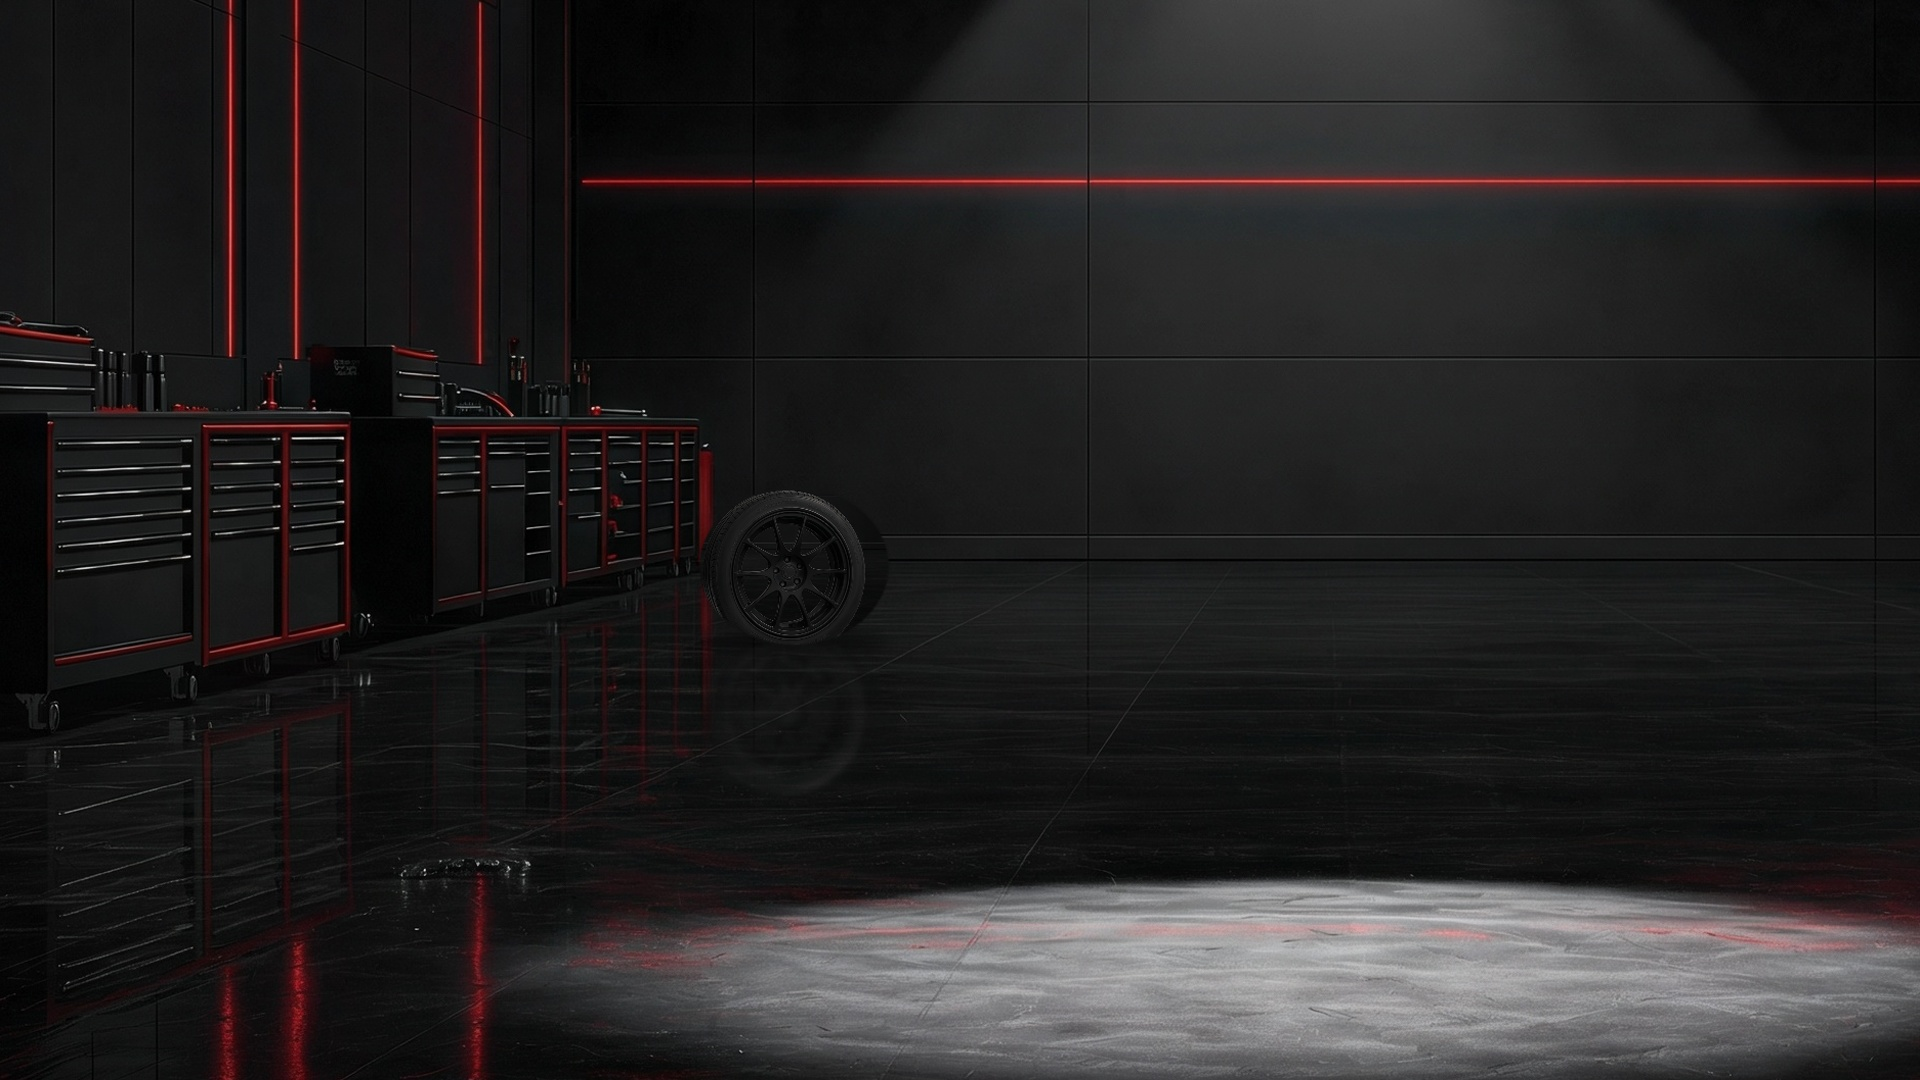
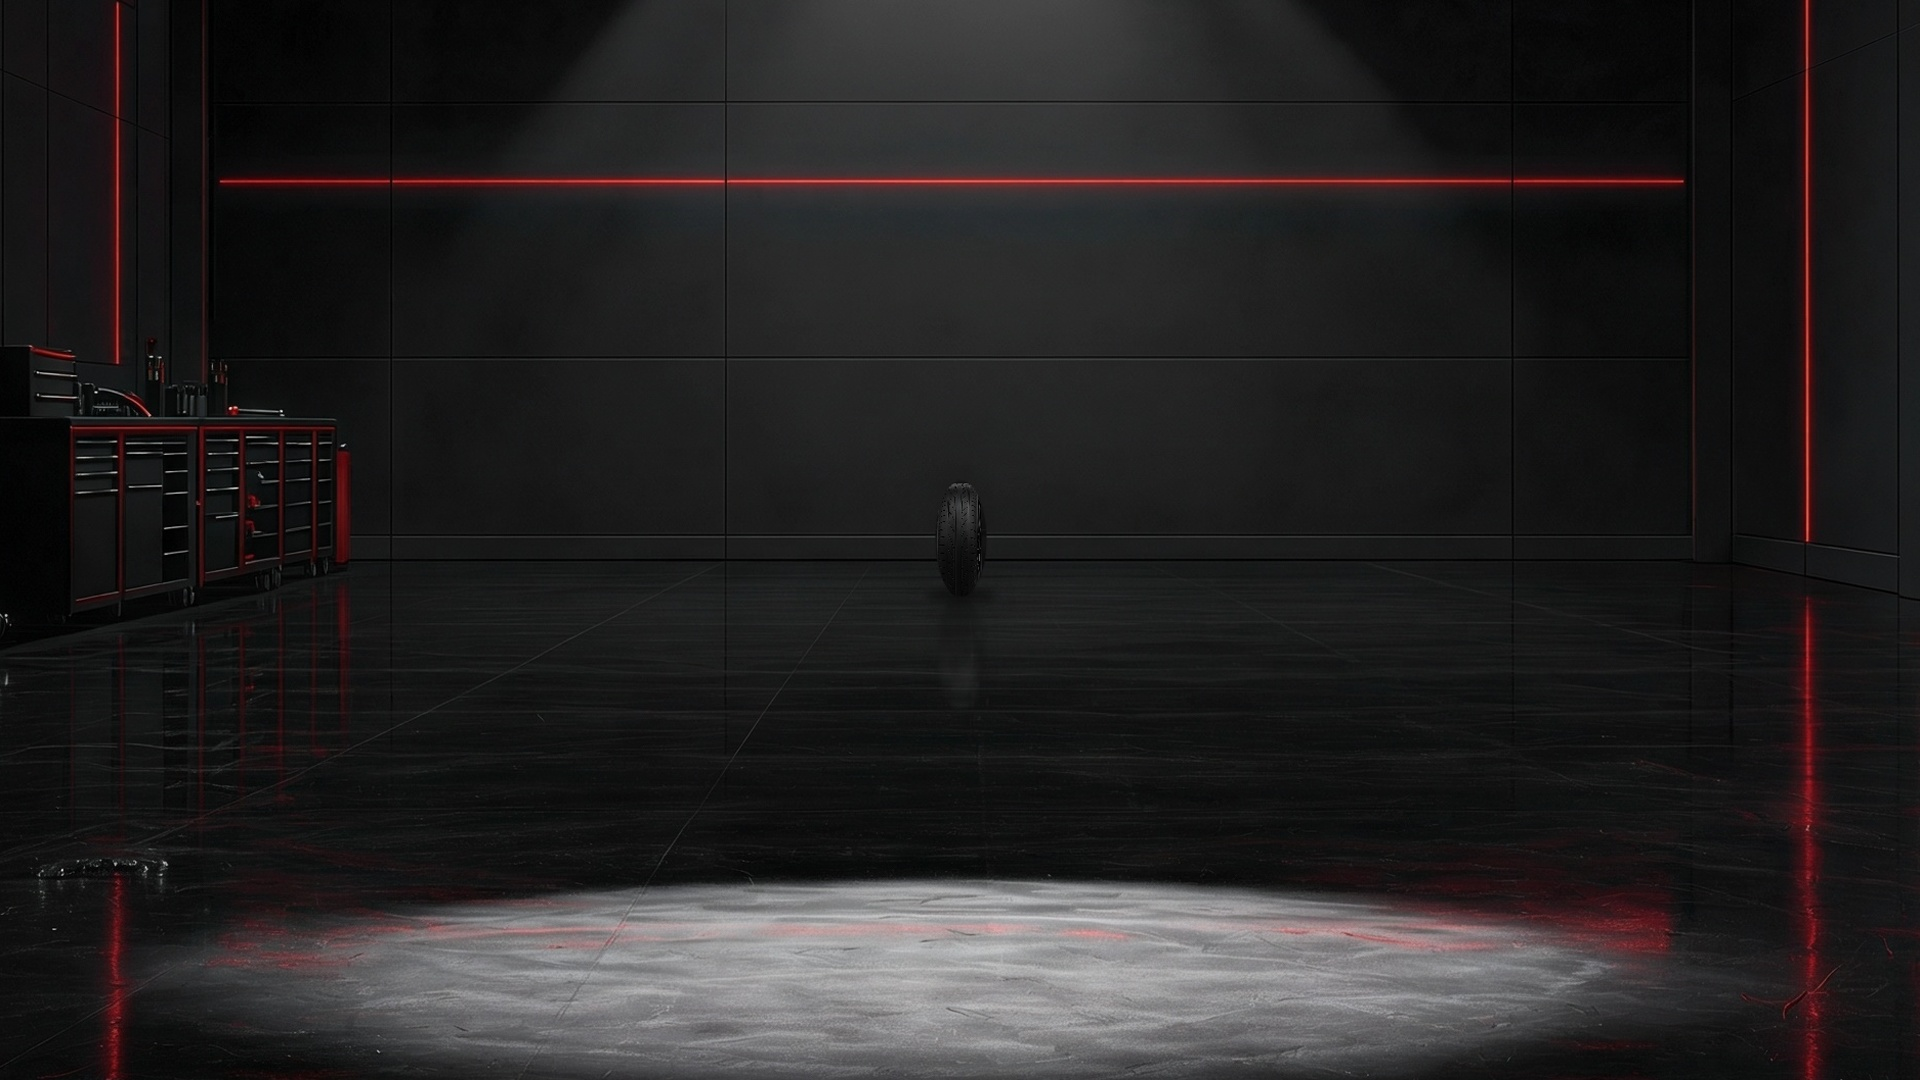
Wheel-roll film: everything seen from the front, real sizes and proportions
The client asked for no tilting wheel and a front perspective throughout, with realistic sizes:
- the lone wheel is now seen tread-on, like the car's front wheels in the final frame; Kling drew it
  too big and too wide, so tools/roll-keys.py scales it to a real 235/45 R17 (643 mm tall, 0.38 as
  wide as tall) standing on the front axle's line
- the first frame looks straight ahead at the back wall (no pan); the wheel rolls straight towards
  the camera, upright, while the camera pulls back
- new chassis clip: the axle extends sideways out of the hub and every wheel keeps facing the camera
- the side-view keys and prompts it replaces are removed

Claude-Session: https://claude.ai/code/session_01X9n1Nom8HpJLTARCho1LJT

diff --git a/tools/roll-keys.py b/tools/roll-keys.py
@@ -3,13 +3,15 @@
 
   dark-final.jpg  the final frame with the workshop's lights down (one dim light from above, faint red neon)
   dark-empty.jpg  the same with the car removed: the plate every frame before the lights come on is laid over
-  wheel-raw.jpg   a single wheel standing in the pool of light; Kling made it about 1.5x too big
+  wheel-raw.jpg   a single wheel standing in the pool of light, seen from the front like the car's front wheels
+                  (tread to the camera); Kling made it about 1.8x too big
 
 Writes:
   wheel.jpg  the wheel at its real size (a 17-inch wheel, 643 mm, at the depth of the car's front axle: about a
              quarter of the frame's height), on the plate
-  start.jpg  the film's first frame: the camera zoomed in on the back left of the workshop, the same wheel small and
-             in shadow there, about to roll forward into the light (1920x1080; tools/higgsfield-edit.sh then relights it)
+  start-comp.jpg  the film's first frame: the camera zoomed straight ahead at the back of the workshop, the same
+             wheel small and in shadow by the back wall, about to roll straight towards the camera into the light
+             (1920x1080; tools/higgsfield-edit.sh then relights it into start.jpg)
 
 The floor's perspective is measured from the final frame: the horizon sits at 55% of the frame's height and a wheel's
 height in the frame is 0.846 x (its contact line's height - 0.55), in frame heights.
@@ -21,8 +23,10 @@ import numpy as np
 
 K = 'assets/generated/assembly/keys/roll'
 HORIZON, SIZE = 0.55, 0.846          # wheel height (frame heights) = SIZE * (contact y - HORIZON)
-START = (0.31, 0.665)                # where the wheel starts: its contact point, as fractions of the frame
-VIEW = (1.45, 0.37, 0.60)            # the first frame's camera: zoom, and the centre of its view
+ASPECT = 0.38                        # a 235/45 R17 tyre seen from the front: about 245 mm wide, 643 mm tall
+CONTACT = 0.865                      # where it stands: on the line of the car's front axle (as in chassis.jpg)
+START = (0.5, 0.635)                 # where the wheel starts: its contact point, as fractions of the frame
+VIEW = (1.45, 0.5, 0.60)             # the first frame's camera: zoom, and the centre of its view (straight ahead)
 
 e = cv2.imread(f'{K}/dark-empty.jpg')
 w = cv2.imread(f'{K}/wheel-raw.jpg')
@@ -50,43 +54,56 @@ xs = [(a, b) for y, a, b in span if top <= y < contact]
 x0, x1 = min(a for a, _ in xs), max(b for _, b in xs)
 cx = (x0 + x1) / 2
 height = contact - top
-print(f'wheel: x {x0}-{x1}, y {top}-{contact} ({height / H:.3f} of the frame)')
+# Kling draws the tyre too wide for its height: narrow it to a real tyre's proportions
+mid = [b - a for y, a, b in span if top + 0.2 * height <= y < contact - 0.1 * height]
+aspect = float(np.median(mid)) / height
+narrow = min(1.0, ASPECT / aspect)
+print(f'wheel: x {x0}-{x1}, y {top}-{contact} ({height / H:.3f} of the frame), width/height {aspect:.2f} -> x{narrow:.2f}')
 
 body = np.zeros((H, W), np.uint8)
 cv2.ellipse(body, (int(cx), int((top + contact) / 2)), (int((x1 - x0) / 2 + 10), int(height / 2 + 10)), 0, 0, 360, 255, -1)
+body[contact + 4:] = 0
 under = np.zeros((H, W), np.uint8)       # its contact shadow and reflection on the floor
 cv2.ellipse(under, (int(cx), int(contact + 0.06 * height)), (int((x1 - x0) * 0.62), int(0.16 * height)), 0, 0, 360, 255, -1)
 patch = cv2.GaussianBlur(np.maximum(body, under), (0, 0), 6).astype(np.float32) / 255
 
 
 def paste(base, scale, at, gain=1.0, region=patch, reflect=0.0):
-    """The wheel scaled by `scale` about its contact point, moved to `at` (pixels), over `base`."""
-    M = np.float32([[scale, 0, at[0] - scale * cx], [0, scale, at[1] - scale * contact]])
+    """The wheel scaled by `scale` (and narrowed to a real tyre's width) about its contact point, moved to `at`
+    (pixels), over `base`."""
+    sx = scale * narrow
+    M = np.float32([[sx, 0, at[0] - sx * cx], [0, scale, at[1] - scale * contact]])
     src = np.clip(w.astype(np.float32) * gain, 0, 255)
     img = cv2.warpAffine(src, M, (W, H), flags=cv2.INTER_AREA)
     a = cv2.warpAffine(region, M, (W, H), flags=cv2.INTER_LINEAR)[..., None]
     out = base.astype(np.float32) * (1 - a) + img * a
     if reflect:   # a faint mirror image in the glossy floor
-        F = np.float32([[scale, 0, at[0] - scale * cx], [0, -scale, at[1] + scale * contact]])
+        F = np.float32([[sx, 0, at[0] - sx * cx], [0, -scale, at[1] + scale * contact]])
         ref = cv2.GaussianBlur(cv2.warpAffine(src, F, (W, H), flags=cv2.INTER_AREA), (0, 0), 2.5)
         ra = cv2.GaussianBlur(cv2.warpAffine(body.astype(np.float32) / 255, F, (W, H)), (0, 0), 3)[..., None] * reflect
         out = out * (1 - ra) + ref * ra
     return np.clip(out, 0, 255).astype(np.uint8)
 
 
-real = SIZE * (contact / H - HORIZON)
-wheel = paste(e, real / (height / H), (cx, contact))
+def shadow(base, size, at, depth):
+    """A soft contact shadow on the floor under a wheel `size` frame heights tall standing at `at` (pixels)."""
+    sh = np.zeros((H, W), np.float32)
+    cv2.ellipse(sh, (int(at[0]), int(at[1])), (int(size * H * ASPECT * 0.85), int(size * H * 0.05)), 0, 0, 360, 1, -1)
+    sh = cv2.GaussianBlur(sh, (0, 0), size * H * 0.04)[..., None]
+    return (base.astype(np.float32) * (1 - depth * sh)).astype(np.uint8)
+
+
+body_soft = cv2.GaussianBlur(body, (0, 0), 3).astype(np.float32) / 255
+real = SIZE * (CONTACT - HORIZON)
+at = (W / 2, CONTACT * H)
+wheel = paste(shadow(e, real, at, 0.7), real / (height / H), at, region=body_soft, reflect=0.3)
 cv2.imwrite(f'{K}/wheel.jpg', wheel, [cv2.IMWRITE_JPEG_QUALITY, 95])
 print(f'real size {real:.3f} of the frame: scaled by {real / (height / H):.3f}')
 
 # the first frame: the same wheel far back on the left, out of the light (darker), and the camera zoomed in on it
 sx, sy = START
 small = SIZE * (sy - HORIZON)
-shadow = np.zeros((H, W), np.float32)
-cv2.ellipse(shadow, (int(sx * W), int(sy * H)), (int(small * H * 0.62), int(small * H * 0.07)), 0, 0, 360, 1, -1)
-shadow = cv2.GaussianBlur(shadow, (0, 0), small * H * 0.05)[..., None]
-base = (e.astype(np.float32) * (1 - 0.55 * shadow)).astype(np.uint8)
-start = paste(base, small / (height / H), (sx * W, sy * H), gain=0.5, region=cv2.GaussianBlur(body, (0, 0), 3).astype(np.float32) / 255, reflect=0.35)
+start = paste(shadow(e, small, (sx * W, sy * H), 0.55), small / (height / H), (sx * W, sy * H), gain=0.5, region=body_soft, reflect=0.35)
 z, vx, vy = VIEW
 vw, vh = W / z, H / z
 x0, y0 = int(round(vx * W - vw / 2)), int(round(vy * H - vh / 2))

diff --git a/tools/finish-roll-film.py b/tools/finish-roll-film.py
@@ -12,13 +12,13 @@ reading the timing this script writes to assets/generated/assembly/roll-motion.j
 The parts (assets/generated/assembly/, see its README):
   keys/roll/dark-final.jpg  the final frame with the lights down (one dim light from above, the red neon faint)
   keys/roll/dark-empty.jpg  the same, the car removed: the plate the dark part of the film is laid over
-  keys/roll/start.jpg       the first frame: the camera zoomed in on the back left, the wheel small in the shadows
-  keys/roll/wheel.jpg       the wheel at real size standing in the pool of light (tools/roll-keys.py)
+  keys/roll/start-comp.jpg  the first frame: the camera zoomed straight ahead, the wheel small by the back wall
+  keys/roll/wheel.jpg       the wheel at real size, seen from the front, in the pool of light (tools/roll-keys.py)
   keys/roll/chassis.jpg     the bare rolling chassis where the car will stand
-  clips/roll/roll-b.mp4     Kling O3, start -> wheel: the wheel rolls forward into the light; the camera follows it,
-                            panning right and pulling back to the final framing
-  clips/roll/chassis-b.mp4  Kling O3, wheel -> chassis: an axle grows out of the wheel's hub, the frame rails, the
-                            other wheels, the coilovers, then the seats and engine
+  clips/roll/roll-fcomp.mp4 Kling O3, start-comp -> wheel: the wheel rolls straight towards the camera into the light,
+                            upright and tread on; the camera pulls back to the final framing
+  clips/roll/chassis-fb.mp4 Kling O3, wheel -> chassis: an axle extends sideways out of the wheel's hub, the wheels
+                            slide out along it, the rear wheels, frame rails and coilovers, then the seats and engine
   clips/roll/body-b.mp4     Kling O3, chassis -> dark-final: the doors, floor, roof, bumper and bonnet fold on, with
                             sparks; the headlights come on
   clips/idle.mp4            Kling O3, final -> final: the car idling (shared with the assembly film)
@@ -43,7 +43,7 @@ A = 'assets/generated/assembly'
 K = f'{A}/keys/roll'
 OUT = sys.argv[1] if len(sys.argv) > 1 else 'preview/hero'
 W, H, FPS = 1920, 1080, 60
-CLIPS = {'roll': 'roll/roll-b', 'chassis': 'roll/chassis-b', 'body': 'roll/body-b', 'idle': 'idle'}
+CLIPS = {'roll': 'roll/roll-fcomp', 'chassis': 'roll/chassis-fb', 'body': 'roll/body-b', 'idle': 'idle'}
 TIMES = {'roll': (0.0, 3.5), 'chassis': (3.5, 6.6), 'body': (6.6, 9.7)}
 JOIN = 0.2          # roll -> chassis crossfade
 DISSOLVE = 0.25     # the body clip -> the dark final key
